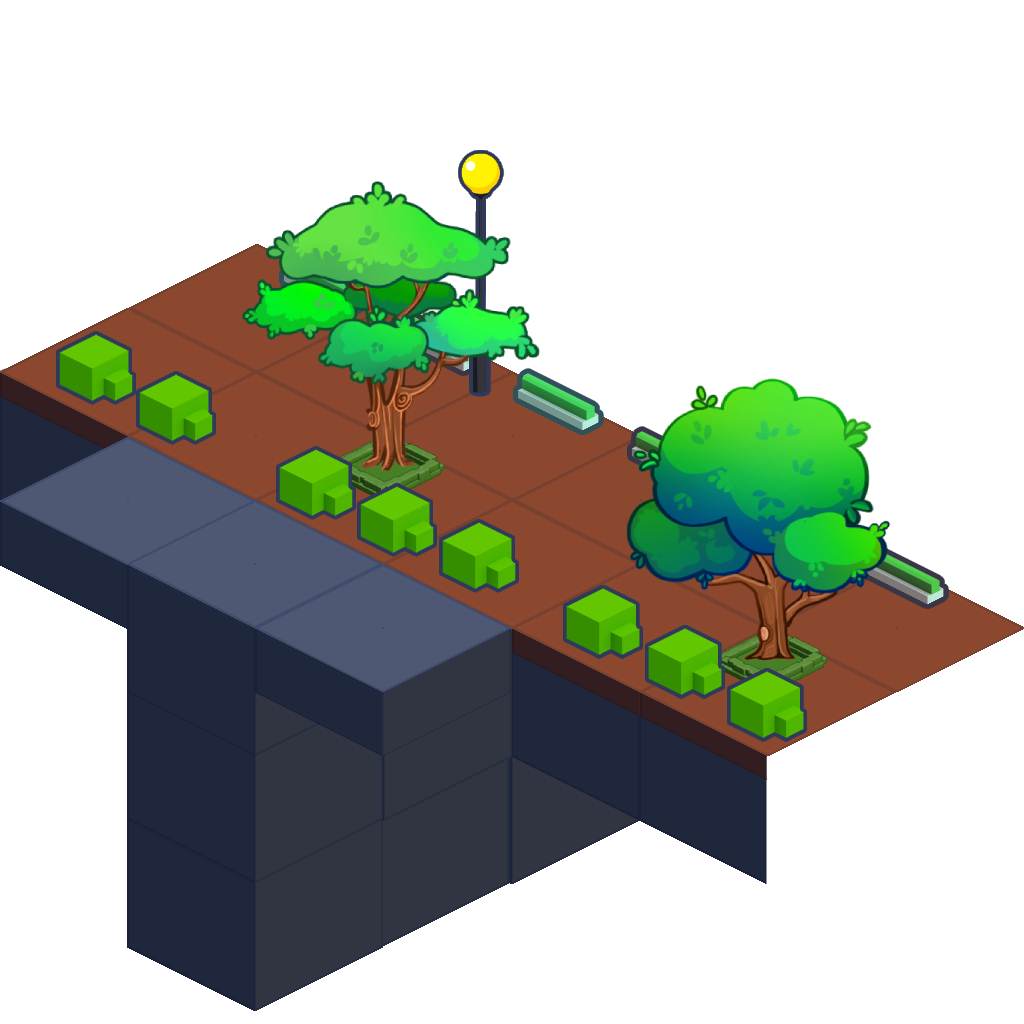
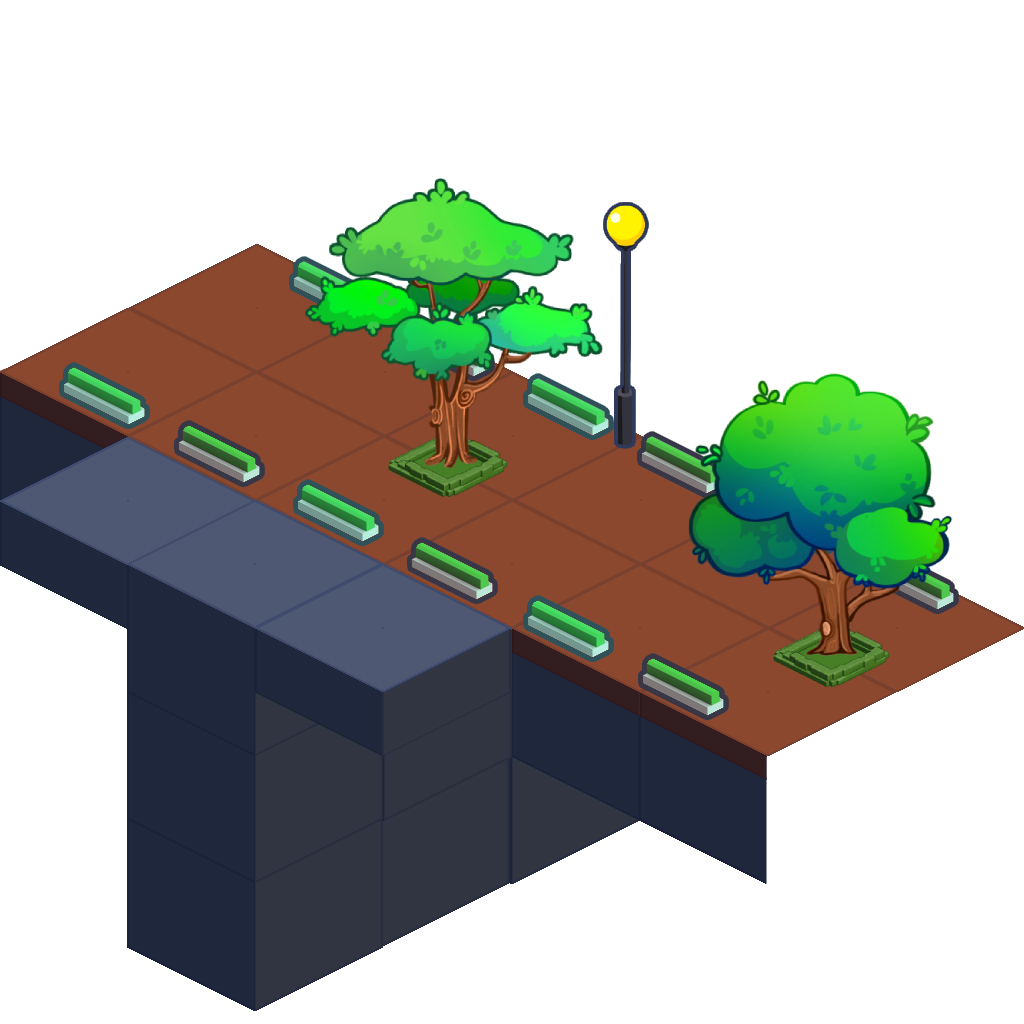
default selection of battlements added

Changed region(s): [[0.0312, 0.125, 0.9375, 0.7188]]

diff --git a/src/scenes/GamePlayScene.ts b/src/scenes/GamePlayScene.ts
@@ -1275,7 +1275,7 @@ export class GamePlayScene extends Container implements IScene {
 
 							if (playerGroundBomb.awaitBlast()) {
 
-								let vehicleEnemy = this.vehicleEnemyGameObjects.find(x => x.isAnimating == true && x.willHonk && Constants.checkCloseCollision(x, playerGroundBomb));
+								let vehicleEnemy = this.vehicleEnemyGameObjects.find(x => x.isAnimating == true && Constants.checkCloseCollision(x, playerGroundBomb));
 
 								if (vehicleEnemy) {
 									this.looseVehicleEnemyhealth(vehicleEnemy as VehicleEnemy);
@@ -1307,7 +1307,7 @@ export class GamePlayScene extends Container implements IScene {
 
 							if (playerGroundBomb.awaitBlast()) {
 
-								let vehicleEnemy = this.vehicleEnemyGameObjects.find(x => x.isAnimating == true && x.willHonk && Constants.checkCloseCollision(x, playerGroundBomb));
+								let vehicleEnemy = this.vehicleEnemyGameObjects.find(x => x.isAnimating == true && Constants.checkCloseCollision(x, playerGroundBomb));
 
 								if (vehicleEnemy) {
 									this.looseVehicleEnemyhealth(vehicleEnemy as VehicleEnemy);

diff --git a/src/Constants.ts b/src/Constants.ts
@@ -218,10 +218,10 @@ export abstract class Constants {
 	public static DEFAULT_BLAST_SHRINK_SCALE: number = 0.8;
 	public static DEFAULT_DROP_SHADOW_DISTANCE: number = 40;
 
-	public static SELECTED_PLAYER_CHARACTER_TEMPLATE: number = -1;
-	public static SELECTED_PLAYER_RIDE_TEMPLATE: number = -1;
-	public static SELECTED_PLAYER_GROUND_BOMB_TEMPLATE: number = -1;
-	public static SELECTED_PLAYER_AIR_BOMB_TEMPLATE: number = -1;
+	public static SELECTED_PLAYER_CHARACTER_TEMPLATE: number = 0;
+	public static SELECTED_PLAYER_RIDE_TEMPLATE: number = 0;
+	public static SELECTED_PLAYER_GROUND_BOMB_TEMPLATE: number = 0;
+	public static SELECTED_PLAYER_AIR_BOMB_TEMPLATE: number = 0;
 
 	public static MESSAGE_BOX_BORDER_COLOR: number = 0x000000;
 	public static MESSAGE_BOX_TEXT_COLOR: string = "#000000";
